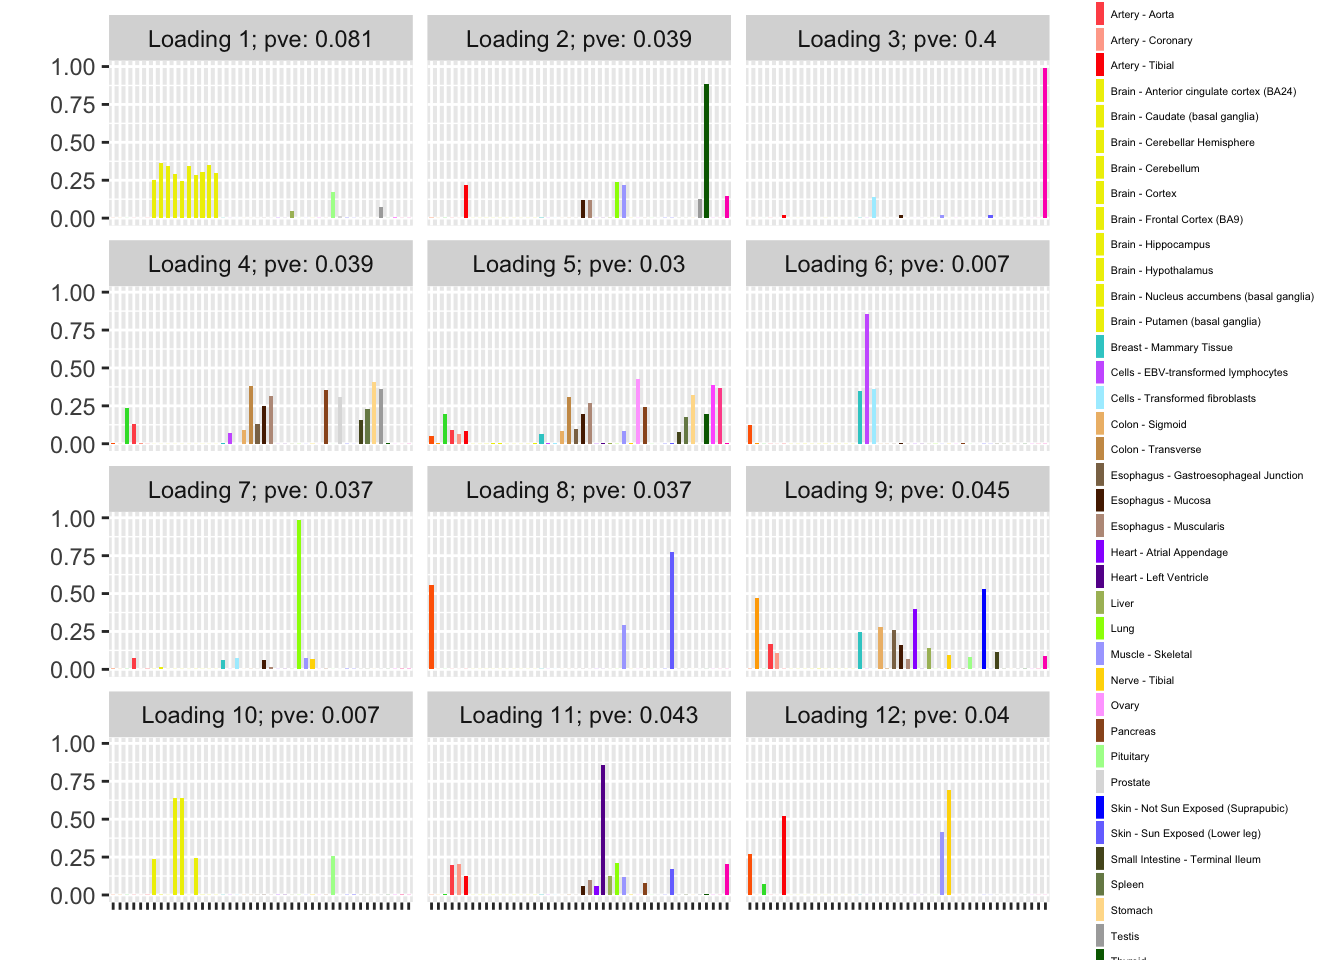
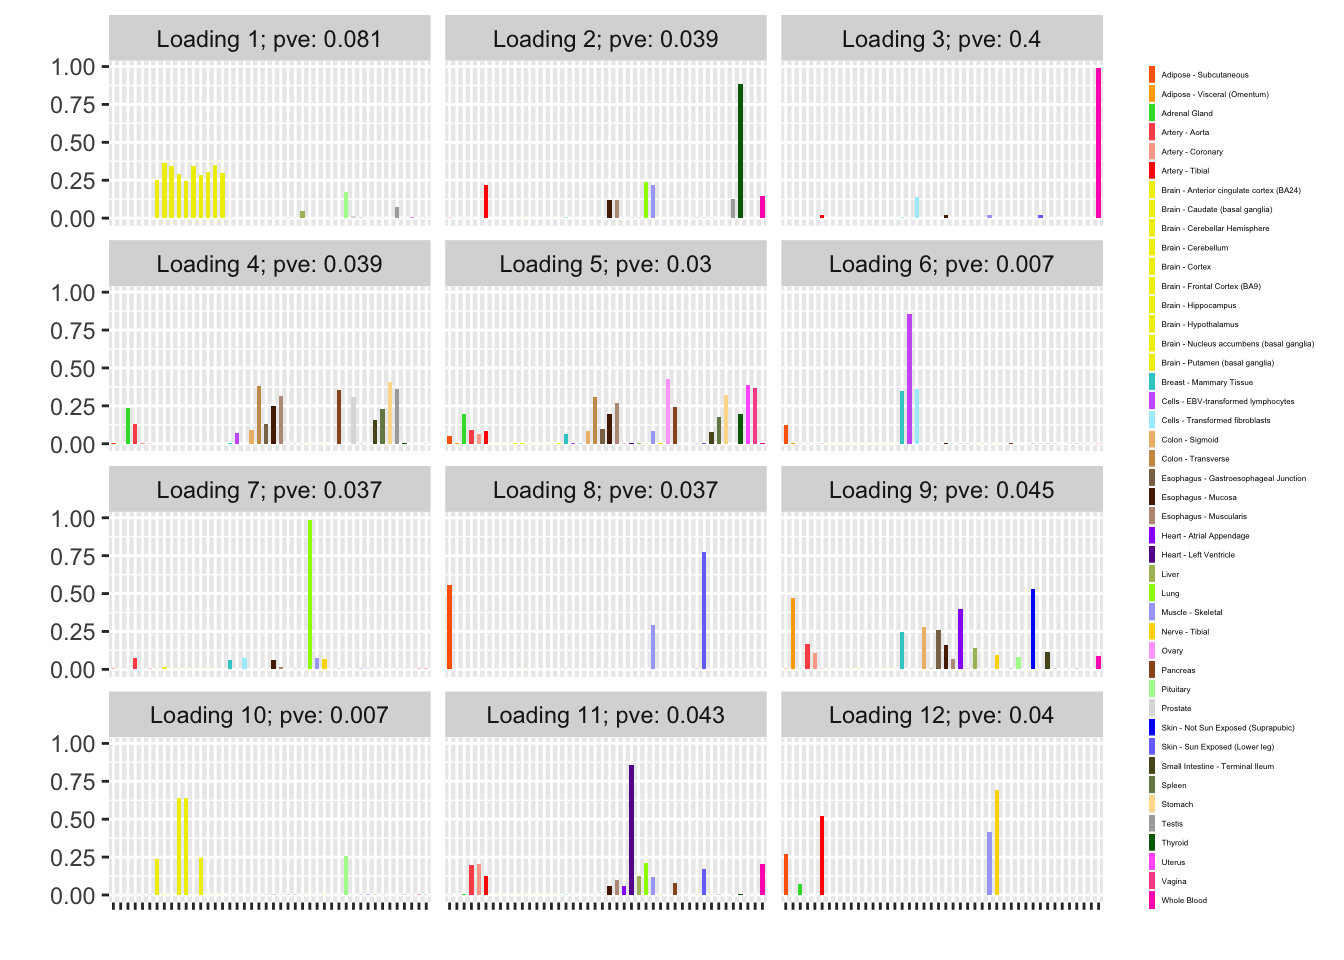
Build site.

Changed region(s): [[0.0938, 0.0, 0.9688, 1.0]]

diff --git a/docs/nonnegative.html b/docs/nonnegative.html
@@ -314,7 +314,7 @@ div.section {
 </div>
 
 
-<p><strong>Last updated:</strong> 2018-09-11</p>
+<p><strong>Last updated:</strong> 2018-09-12</p>
 <strong>workflowr checks:</strong> <small>(Click a bullet for more information)</small>
 <ul>
 <li>
@@ -338,7 +338,7 @@ div.section {
 </details>
 </li>
 <li>
-<p><details> <summary> <strong style="color:blue;">✔</strong> <strong>Repository version:</strong> <a href="https://github.com/willwerscheid/FLASHvestigations/tree/89b711c369f3ba026873c9b9b2438f8667f5f58c" target="_blank">89b711c</a> </summary></p>
+<p><details> <summary> <strong style="color:blue;">✔</strong> <strong>Repository version:</strong> <a href="https://github.com/willwerscheid/FLASHvestigations/tree/25f8ad57f558198a765b7f91f5ba7113c1456926" target="_blank">25f8ad5</a> </summary></p>
 Great! You are using Git for version control. Tracking code development and connecting the code version to the results is critical for reproducibility. The version displayed above was the version of the Git repository at the time these results were generated. <br><br> Note that you need to be careful to ensure that all relevant files for the analysis have been committed to Git prior to generating the results (you can use <code>wflow_publish</code> or <code>wflow_git_commit</code>). workflowr only checks the R Markdown file, but you know if there are other scripts or data files that it depends on. Below is the status of the Git repository when the results were generated:
 <pre><code>
 Ignored files:
@@ -350,6 +350,9 @@ Ignored files:
 
 Untracked files:
     Untracked:  data/greedy19.rds
+
+Unstaged changes:
+    Modified:   analysis/index.Rmd
 
 </code></pre>
 Note that any generated files, e.g. HTML, png, CSS, etc., are not included in this status report because it is ok for generated content to have uncommitted changes. </details>
@@ -378,6 +381,40 @@ Message
 </tr>
 </thead>
 <tbody>
+<tr>
+<td style="text-align:left;">
+Rmd
+</td>
+<td style="text-align:left;">
+<a href="https://github.com/willwerscheid/FLASHvestigations/blob/25f8ad57f558198a765b7f91f5ba7113c1456926/analysis/nonnegative.Rmd" target="_blank">25f8ad5</a>
+</td>
+<td style="text-align:left;">
+Jason Willwerscheid
+</td>
+<td style="text-align:left;">
+2018-09-12
+</td>
+<td style="text-align:left;">
+wflow_publish(“analysis/nonnegative.Rmd”)
+</td>
+</tr>
+<tr>
+<td style="text-align:left;">
+html
+</td>
+<td style="text-align:left;">
+<a href="https://cdn.rawgit.com/willwerscheid/FLASHvestigations/2825464187388e66526a31ec1b4a99a8e774032e/docs/nonnegative.html" target="_blank">2825464</a>
+</td>
+<td style="text-align:left;">
+Jason Willwerscheid
+</td>
+<td style="text-align:left;">
+2018-09-11
+</td>
+<td style="text-align:left;">
+Build site.
+</td>
+</tr>
 <tr>
 <td style="text-align:left;">
 Rmd
@@ -412,8 +449,8 @@ wflow_publish(“analysis/nonnegative.Rmd”)
                 header=TRUE, sep=&#39;\t&#39;)
 
 data &lt;- raw[, c(&quot;SAMPID&quot;, &quot;SMTSD&quot;)] # sample ID, tissue type
-tmp &lt;- strsplit(as.character(data$SAMPID), &quot;-&quot;)
 # Extract donor ID:
+tmp &lt;- strsplit(as.character(data$SAMPID), &quot;-&quot;)
 data$SAMPID &lt;- as.factor(sapply(tmp, function(x) {x[[2]]})) 
 names(data) &lt;- c(&quot;DonorID&quot;, &quot;TissueType&quot;)
 
@@ -426,10 +463,17 @@ gtex.colors &lt;- read.table(&quot;https://github.com/stephenslab/gtexresults/bl
                           sep = &#39;\t&#39;, comment.char = &#39;&#39;)
 gtex.colors &lt;- gtex.colors[-c(7, 8, 19, 20, 24, 25, 31, 34, 37), 2]
 gtex.colors &lt;- as.character(gtex.colors)</code></pre>
+<p>As a preliminary step, it is useful to visualize the correlation matrix. I use Kushal Dey’s <code>CorShrink</code> package, which outputs the empirical correlation matrix and shrunken estimates of the “true” correlations.</p>
+<pre class="r"><code>tmp &lt;- capture.output(
+  CorShrink::CorShrinkData(t(data), sd_boot = TRUE, image = &quot;both&quot;,
+                           image.control = list(tl.cex = 0.25))
+)</code></pre>
+<pre><code>Using sd_boot as value column: use value.var to override.</code></pre>
+<p><img src="figure/nonnegative.Rmd/corr-1.png" width="672" style="display: block; margin: auto;" /></p>
 </div>
 <div id="initialization-function" class="section level2">
 <h2>Initialization function</h2>
-<p>We can likely do better than using the default SVD-type initialization. Here I use the nonnegative matrix factorization implemented in package <code>NNLM</code>.</p>
+<p>To obtain nonnegative factor/loading pairs using FLASH, we can likely do better than to use the default SVD-type initialization. Here I use the nonnegative matrix factorization implemented in package <code>NNLM</code>.</p>
 <pre class="r"><code>udv_nn = function(Y, K = 1) {
   tmp = NNLM::nnmf(Y, K, verbose = FALSE)
   return(list(d = rep(1, K), u = tmp$W, v = t(tmp$H)))
@@ -452,29 +496,79 @@ run_flash_once &lt;- function(f_init) {
         backfit = TRUE, verbose = FALSE)
 }
 
-fl_g &lt;- run_flash_once(f_init = NULL)</code></pre>
-<pre><code>Warning in REBayes::KWDual(A, rep(1, k), normalize(w), control = control): estimated mixing distribution has some negative values:
-               consider reducing rtol</code></pre>
-<pre><code>Warning in mixIP(matrix_lik = structure(c(0, 0, 0, 0, 0, 0, 0, 0, 0,
-0, : Optimization step yields mixture weights that are either too small,
-or negative; weights have been corrected and renormalized after the
-optimization.</code></pre>
-<pre class="r"><code>fl_g &lt;- run_flash_once(f_init = fl_g)</code></pre>
-<pre><code>Warning in verbose_obj_decrease_warning(): An iteration decreased the
-objective. This happens occasionally, perhaps due to numeric reasons.
-You could ignore this warning, but you might like to check out https://
-github.com/stephenslab/flashr/issues/26 for more details.</code></pre>
-<pre class="r"><code>fl_g &lt;- run_flash_once(f_init = fl_g)
+fl_g &lt;- run_flash_once(f_init = NULL)
+fl_g &lt;- run_flash_once(f_init = fl_g)
+fl_g &lt;- run_flash_once(f_init = fl_g)
 fl_g$objective</code></pre>
 <pre><code>[1] -15156.65</code></pre>
 <pre class="r"><code>plot(fl_g, plot_loadings = TRUE, loading_colors = gtex.colors,
-     loading_legend_size = 4, 
+     loading_legend_size = 3, 
      plot_grid_nrow = 4, plot_grid_ncol = 3)</code></pre>
-<p><img src="figure/nonnegative.Rmd/greedy-1.png" width="672" style="display: block; margin: auto;" /><img src="figure/nonnegative.Rmd/greedy-2.png" width="672" style="display: block; margin: auto;" /></p>
+<p><img src="figure/nonnegative.Rmd/greedy-1.png" width="672" style="display: block; margin: auto;" /></p>
+<details> <summary><em>Expand here to see past versions of greedy-1.png:</em></summary>
+<table style="border-collapse:separate; border-spacing:5px;">
+<thead>
+<tr>
+<th style="text-align:left;">
+Version
+</th>
+<th style="text-align:left;">
+Author
+</th>
+<th style="text-align:left;">
+Date
+</th>
+</tr>
+</thead>
+<tbody>
+<tr>
+<td style="text-align:left;">
+<a href="https://github.com/willwerscheid/FLASHvestigations/blob/2825464187388e66526a31ec1b4a99a8e774032e/docs/figure/nonnegative.Rmd/greedy-1.png" target="_blank">2825464</a>
+</td>
+<td style="text-align:left;">
+Jason Willwerscheid
+</td>
+<td style="text-align:left;">
+2018-09-11
+</td>
+</tr>
+</tbody>
+</table>
+<p></details> <img src="figure/nonnegative.Rmd/greedy-2.png" width="672" style="display: block; margin: auto;" /></p>
+<details> <summary><em>Expand here to see past versions of greedy-2.png:</em></summary>
+<table style="border-collapse:separate; border-spacing:5px;">
+<thead>
+<tr>
+<th style="text-align:left;">
+Version
+</th>
+<th style="text-align:left;">
+Author
+</th>
+<th style="text-align:left;">
+Date
+</th>
+</tr>
+</thead>
+<tbody>
+<tr>
+<td style="text-align:left;">
+<a href="https://github.com/willwerscheid/FLASHvestigations/blob/2825464187388e66526a31ec1b4a99a8e774032e/docs/figure/nonnegative.Rmd/greedy-2.png" target="_blank">2825464</a>
+</td>
+<td style="text-align:left;">
+Jason Willwerscheid
+</td>
+<td style="text-align:left;">
+2018-09-11
+</td>
+</tr>
+</tbody>
+</table>
+<p></details></p>
 </div>
 <div id="backfitted-loadings" class="section level2">
 <h2>Backfitted loadings</h2>
-<p>Next I add 12 factors at once using <code>NNLM</code> and then backfit. Note that the objective obtained using this method is significantly better than the above.</p>
+<p>Next I add 12 factors at once using <code>NNLM</code> and then backfit. Note that the objective obtained using this method is much better than the above (by approximately 500).</p>
 <pre class="r"><code>fl_nnmf &lt;- flash_add_factors_from_data(data, 12,
                                        init_fn = udv_nn, 
                                        backfit = FALSE)
@@ -487,17 +581,143 @@ fl_b &lt;- flash_backfit(data, fl_nnmf,
 fl_b$objective</code></pre>
 <pre><code>[1] -14666.36</code></pre>
 <pre class="r"><code>plot(fl_b, plot_loadings = TRUE, loading_colors = gtex.colors,
-     loading_legend_size = 4, 
+     loading_legend_size = 3, 
      plot_grid_nrow = 4, plot_grid_ncol = 3)</code></pre>
-<p><img src="figure/nonnegative.Rmd/backfit-1.png" width="672" style="display: block; margin: auto;" /><img src="figure/nonnegative.Rmd/backfit-2.png" width="672" style="display: block; margin: auto;" /></p>
+<p><img src="figure/nonnegative.Rmd/backfit-1.png" width="672" style="display: block; margin: auto;" /></p>
+<details> <summary><em>Expand here to see past versions of backfit-1.png:</em></summary>
+<table style="border-collapse:separate; border-spacing:5px;">
+<thead>
+<tr>
+<th style="text-align:left;">
+Version
+</th>
+<th style="text-align:left;">
+Author
+</th>
+<th style="text-align:left;">
+Date
+</th>
+</tr>
+</thead>
+<tbody>
+<tr>
+<td style="text-align:left;">
+<a href="https://github.com/willwerscheid/FLASHvestigations/blob/2825464187388e66526a31ec1b4a99a8e774032e/docs/figure/nonnegative.Rmd/backfit-1.png" target="_blank">2825464</a>
+</td>
+<td style="text-align:left;">
+Jason Willwerscheid
+</td>
+<td style="text-align:left;">
+2018-09-11
+</td>
+</tr>
+</tbody>
+</table>
+<p></details> <img src="figure/nonnegative.Rmd/backfit-2.png" width="672" style="display: block; margin: auto;" /></p>
+<details> <summary><em>Expand here to see past versions of backfit-2.png:</em></summary>
+<table style="border-collapse:separate; border-spacing:5px;">
+<thead>
+<tr>
+<th style="text-align:left;">
+Version
+</th>
+<th style="text-align:left;">
+Author
+</th>
+<th style="text-align:left;">
+Date
+</th>
+</tr>
+</thead>
+<tbody>
+<tr>
+<td style="text-align:left;">
+<a href="https://github.com/willwerscheid/FLASHvestigations/blob/2825464187388e66526a31ec1b4a99a8e774032e/docs/figure/nonnegative.Rmd/backfit-2.png" target="_blank">2825464</a>
+</td>
+<td style="text-align:left;">
+Jason Willwerscheid
+</td>
+<td style="text-align:left;">
+2018-09-11
+</td>
+</tr>
+</tbody>
+</table>
+<p></details></p>
 </div>
 <div id="nnlm-loadings" class="section level2">
 <h2>NNLM loadings</h2>
-<p>The backfitted loadings can be compared with the loadings that are obtained by simply running <code>NNLM</code>. Results are very similar; I’m not sure there’s much benefit to using FLASH in this case.</p>
+<p>The backfitted loadings can be compared with the loadings that are obtained by simply running <code>NNLM</code>. Results are quite similar.</p>
 <pre class="r"><code>plot(fl_nnmf, plot_loadings=TRUE, loading_colors = gtex.colors,
-     loading_legend_size = 4, 
+     loading_legend_size = 3, 
      plot_grid_nrow = 4, plot_grid_ncol = 3)</code></pre>
-<p><img src="figure/nonnegative.Rmd/nnmf-1.png" width="672" style="display: block; margin: auto;" /><img src="figure/nonnegative.Rmd/nnmf-2.png" width="672" style="display: block; margin: auto;" /></p>
+<p><img src="figure/nonnegative.Rmd/nnmf-1.png" width="672" style="display: block; margin: auto;" /></p>
+<details> <summary><em>Expand here to see past versions of nnmf-1.png:</em></summary>
+<table style="border-collapse:separate; border-spacing:5px;">
+<thead>
+<tr>
+<th style="text-align:left;">
+Version
+</th>
+<th style="text-align:left;">
+Author
+</th>
+<th style="text-align:left;">
+Date
+</th>
+</tr>
+</thead>
+<tbody>
+<tr>
+<td style="text-align:left;">
+<a href="https://github.com/willwerscheid/FLASHvestigations/blob/2825464187388e66526a31ec1b4a99a8e774032e/docs/figure/nonnegative.Rmd/nnmf-1.png" target="_blank">2825464</a>
+</td>
+<td style="text-align:left;">
+Jason Willwerscheid
+</td>
+<td style="text-align:left;">
+2018-09-11
+</td>
+</tr>
+</tbody>
+</table>
+<p></details> <img src="figure/nonnegative.Rmd/nnmf-2.png" width="672" style="display: block; margin: auto;" /></p>
+<details> <summary><em>Expand here to see past versions of nnmf-2.png:</em></summary>
+<table style="border-collapse:separate; border-spacing:5px;">
+<thead>
+<tr>
+<th style="text-align:left;">
+Version
+</th>
+<th style="text-align:left;">
+Author
+</th>
+<th style="text-align:left;">
+Date
+</th>
+</tr>
+</thead>
+<tbody>
+<tr>
+<td style="text-align:left;">
+<a href="https://github.com/willwerscheid/FLASHvestigations/blob/2825464187388e66526a31ec1b4a99a8e774032e/docs/figure/nonnegative.Rmd/nnmf-2.png" target="_blank">2825464</a>
+</td>
+<td style="text-align:left;">
+Jason Willwerscheid
+</td>
+<td style="text-align:left;">
+2018-09-11
+</td>
+</tr>
+</tbody>
+</table>
+<p></details></p>
+</div>
+<div id="discussion" class="section level2">
+<h2>Discussion</h2>
+<p>The loading that accounts for the largest PVE (backfitted loading 3) puts a large weight on whole blood and a smaller weight on fibroblasts. In effect, there are many more whole blood samples than samples from any other tissue (1822 versus, on average, 224).</p>
+<p>The loading with the second-largest PVE (loading 1) shares weights among brain tissues, with a smaller weight on pituitary tissues. FLASH finds a very similar loading in the GTEx summary data (loading 2 <a href="https://willwerscheid.github.io/MASHvFLASH/MASHvFLASHnn.html#multi-tissue_effects">here</a>, for example).</p>
+<p>It is also worth noting that loading 5 puts large weights on female reproductive tissues (ovary, uterus, and vagina), so it is most likely a sex-specific loading. Similarly, loading 4 puts its largest weights on testicular and prostate tissues. Both of these loadings put very similar weights on non-reproductive tissues (observe, in particular, the similarity of weights among gastro-intestinal tissues), so we should not make too much of correlations between reproductive and non-reproductive tissues. It is probably the case that the two sex-specific loadings are entangled with a third loading that is more properly weighted on gastro-intestinal tissues alone.</p>
 </div>
 <div id="session-information" class="section level2">
 <h2>Session information</h2>
@@ -520,26 +740,27 @@ other attached packages:
 [1] ebnm_0.1-13  flashr_0.6-1
 
 loaded via a namespace (and not attached):
- [1] Rcpp_0.12.18        pillar_1.2.1        compiler_3.4.3     
- [4] git2r_0.21.0        plyr_1.8.4          workflowr_1.0.1    
- [7] R.methodsS3_1.7.1   R.utils_2.6.0       iterators_1.0.9    
-[10] tools_3.4.3         testthat_2.0.0      digest_0.6.15      
-[13] tibble_1.4.2        evaluate_0.10.1     memoise_1.1.0      
-[16] gtable_0.2.0        lattice_0.20-35     rlang_0.2.0        
-[19] Matrix_1.2-12       foreach_1.4.4       commonmark_1.4     
-[22] yaml_2.1.17         parallel_3.4.3      withr_2.1.1.9000   
-[25] stringr_1.3.0       roxygen2_6.0.1.9000 knitr_1.20         
-[28] xml2_1.2.0          REBayes_1.2         devtools_1.13.4    
-[31] rprojroot_1.3-2     grid_3.4.3          R6_2.2.2           
-[34] rmarkdown_1.8       reshape2_1.4.3      ggplot2_2.2.1      
-[37] ashr_2.2-13         magrittr_1.5        whisker_0.3-2      
-[40] scales_0.5.0        backports_1.1.2     codetools_0.2-15   
-[43] htmltools_0.3.6     MASS_7.3-48         assertthat_0.2.0   
-[46] softImpute_1.4      colorspace_1.3-2    labeling_0.3       
-[49] stringi_1.1.6       Rmosek_7.1.3        lazyeval_0.2.1     
-[52] munsell_0.4.3       doParallel_1.0.11   pscl_1.5.2         
-[55] NNLM_0.4.2          truncnorm_1.0-8     SQUAREM_2017.10-1  
-[58] R.oo_1.21.0        </code></pre>
+ [1] softImpute_1.4      NNLM_0.4.2          ashr_2.2-13        
+ [4] reshape2_1.4.3      corrplot_0.84       lattice_0.20-35    
+ [7] Rmosek_7.1.3        colorspace_1.3-2    testthat_2.0.0     
+[10] htmltools_0.3.6     yaml_2.1.17         rlang_0.2.0        
+[13] R.oo_1.21.0         pillar_1.2.1        withr_2.1.1.9000   
+[16] R.utils_2.6.0       REBayes_1.2         foreach_1.4.4      
+[19] plyr_1.8.4          stringr_1.3.0       munsell_0.4.3      
+[22] commonmark_1.4      gtable_0.2.0        workflowr_1.0.1    
+[25] R.methodsS3_1.7.1   devtools_1.13.4     codetools_0.2-15   
+[28] memoise_1.1.0       evaluate_0.10.1     labeling_0.3       
+[31] knitr_1.20          pscl_1.5.2          doParallel_1.0.11  
+[34] parallel_3.4.3      Rcpp_0.12.18        corpcor_1.6.9      
+[37] backports_1.1.2     scales_0.5.0        truncnorm_1.0-8    
+[40] gridExtra_2.3       ggplot2_2.2.1       digest_0.6.15      
+[43] stringi_1.1.6       grid_3.4.3          rprojroot_1.3-2    
+[46] tools_3.4.3         magrittr_1.5        lazyeval_0.2.1     
+[49] glmnet_2.0-13       CorShrink_0.1-6     tibble_1.4.2       
+[52] whisker_0.3-2       MASS_7.3-48         Matrix_1.2-12      
+[55] SQUAREM_2017.10-1   xml2_1.2.0          assertthat_0.2.0   
+[58] rmarkdown_1.8       roxygen2_6.0.1.9000 iterators_1.0.9    
+[61] R6_2.2.2            git2r_0.21.0        compiler_3.4.3     </code></pre>
 </div>
 
 <!-- Adjust MathJax settings so that all math formulae are shown using
